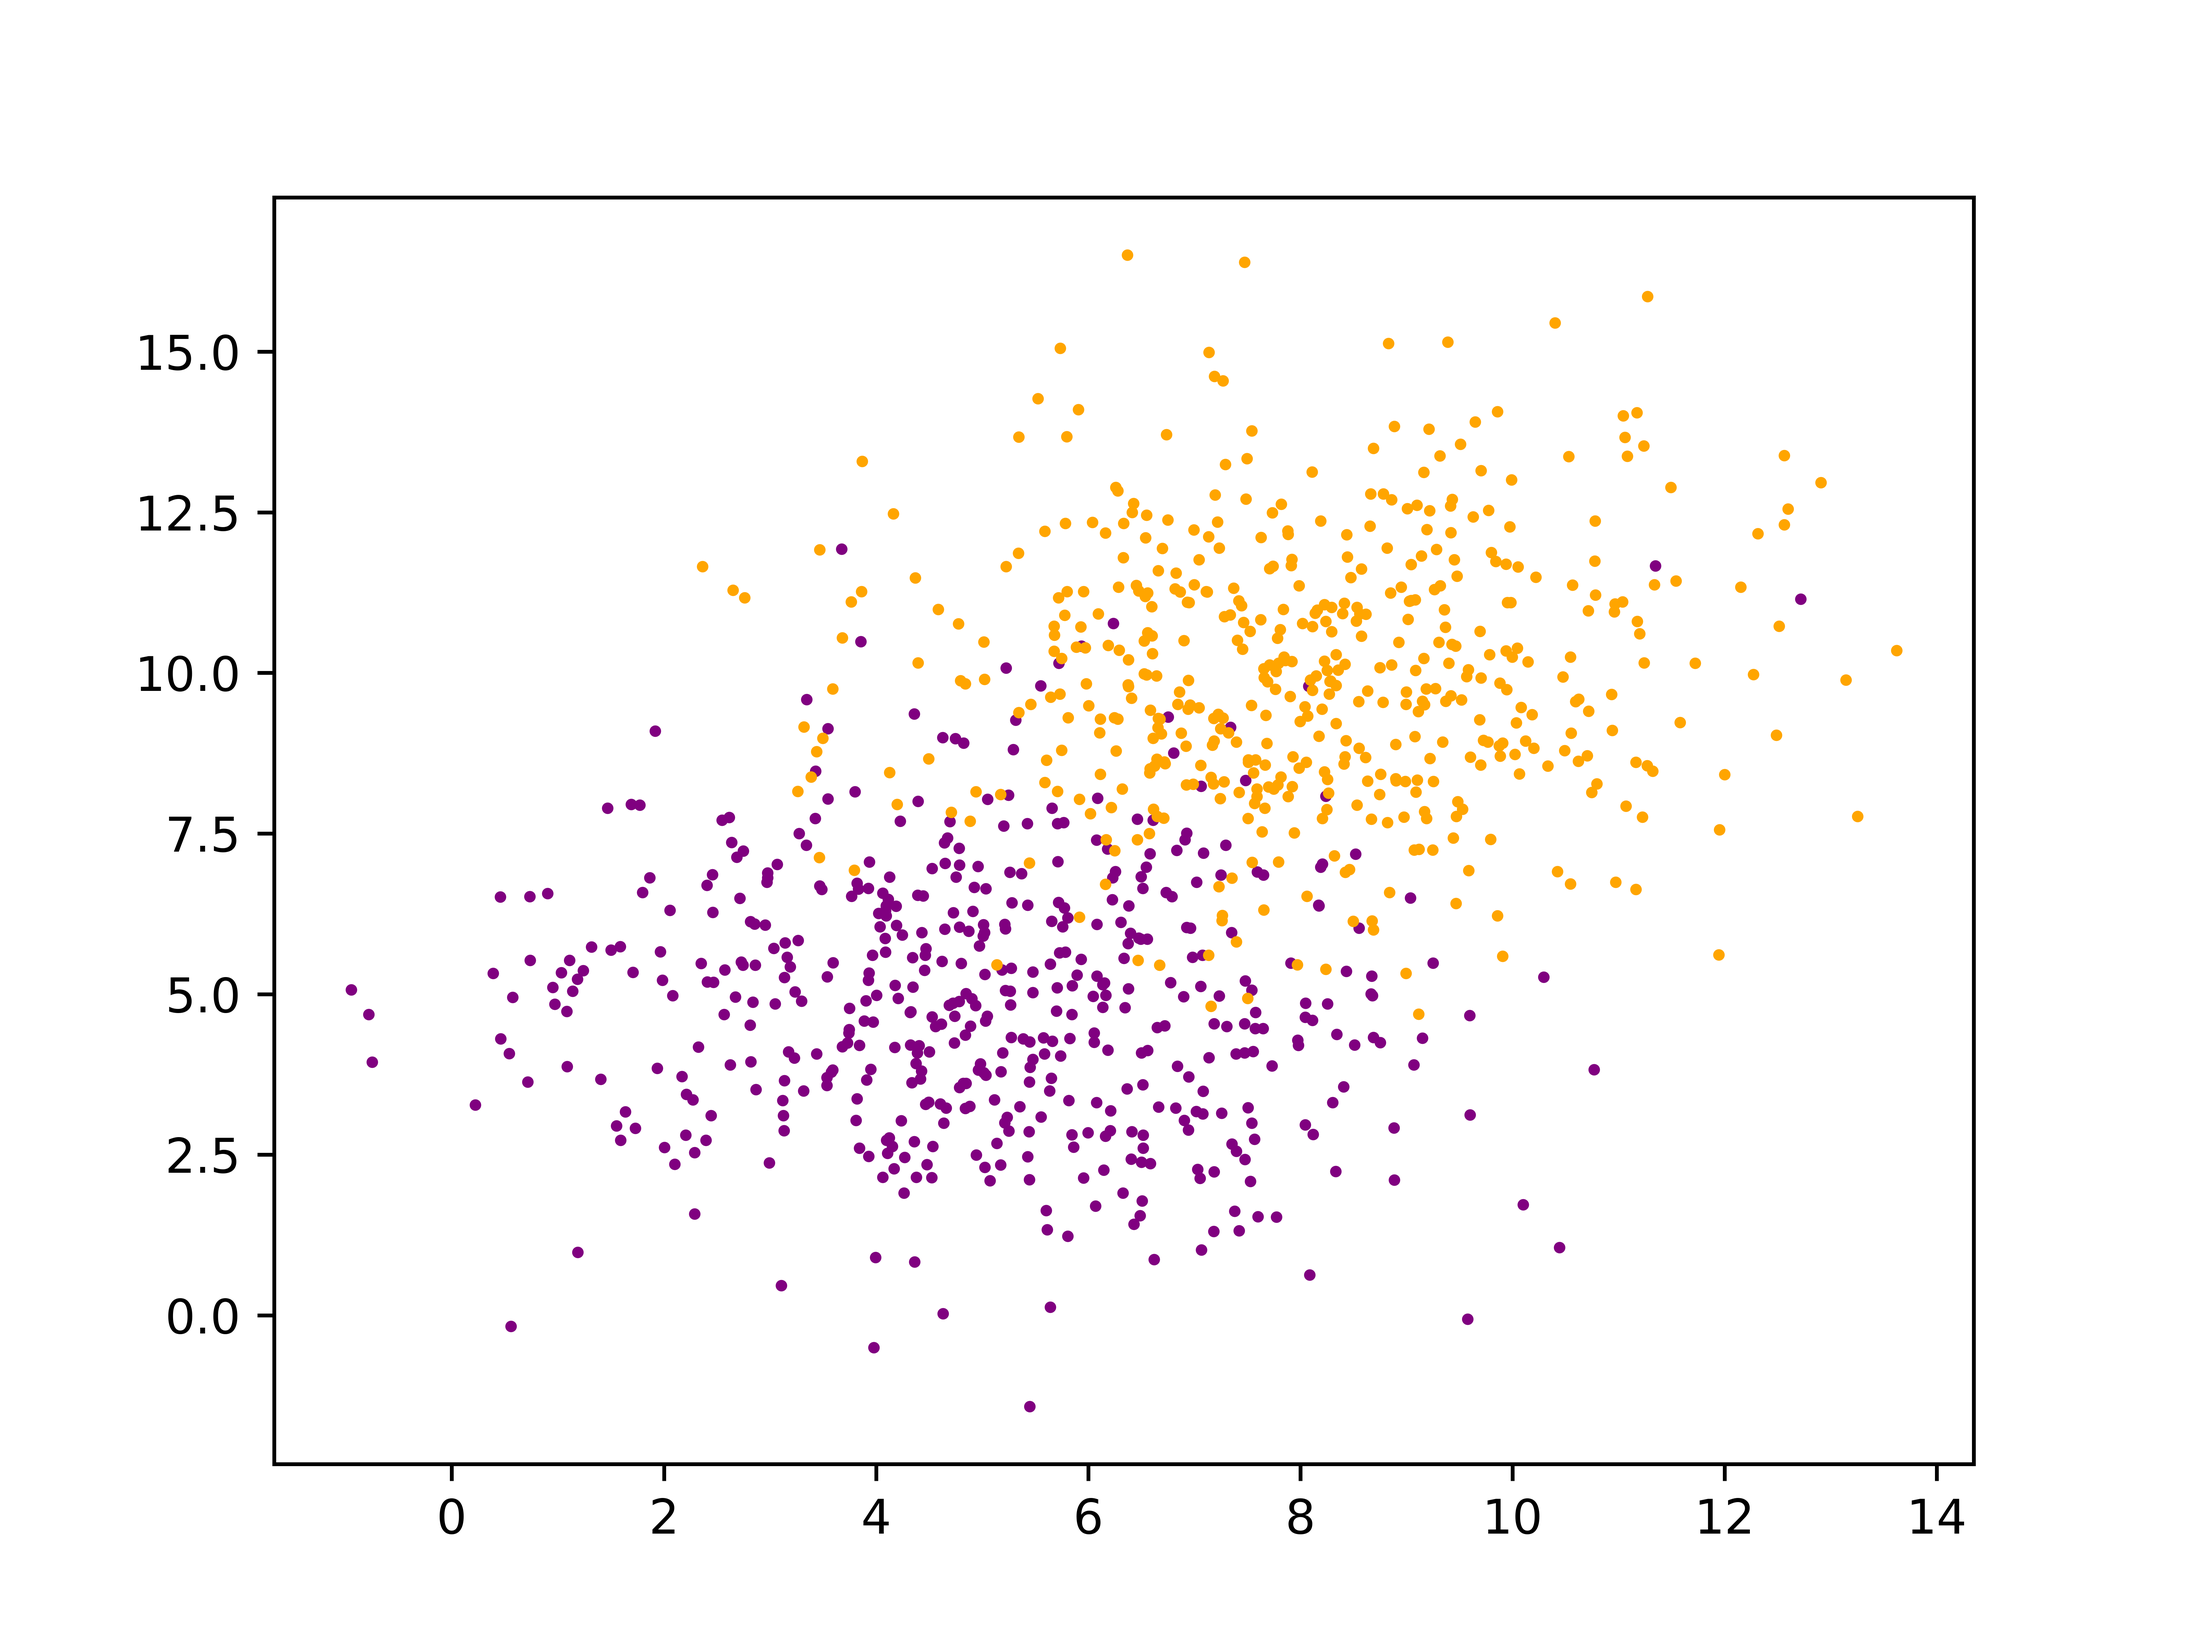
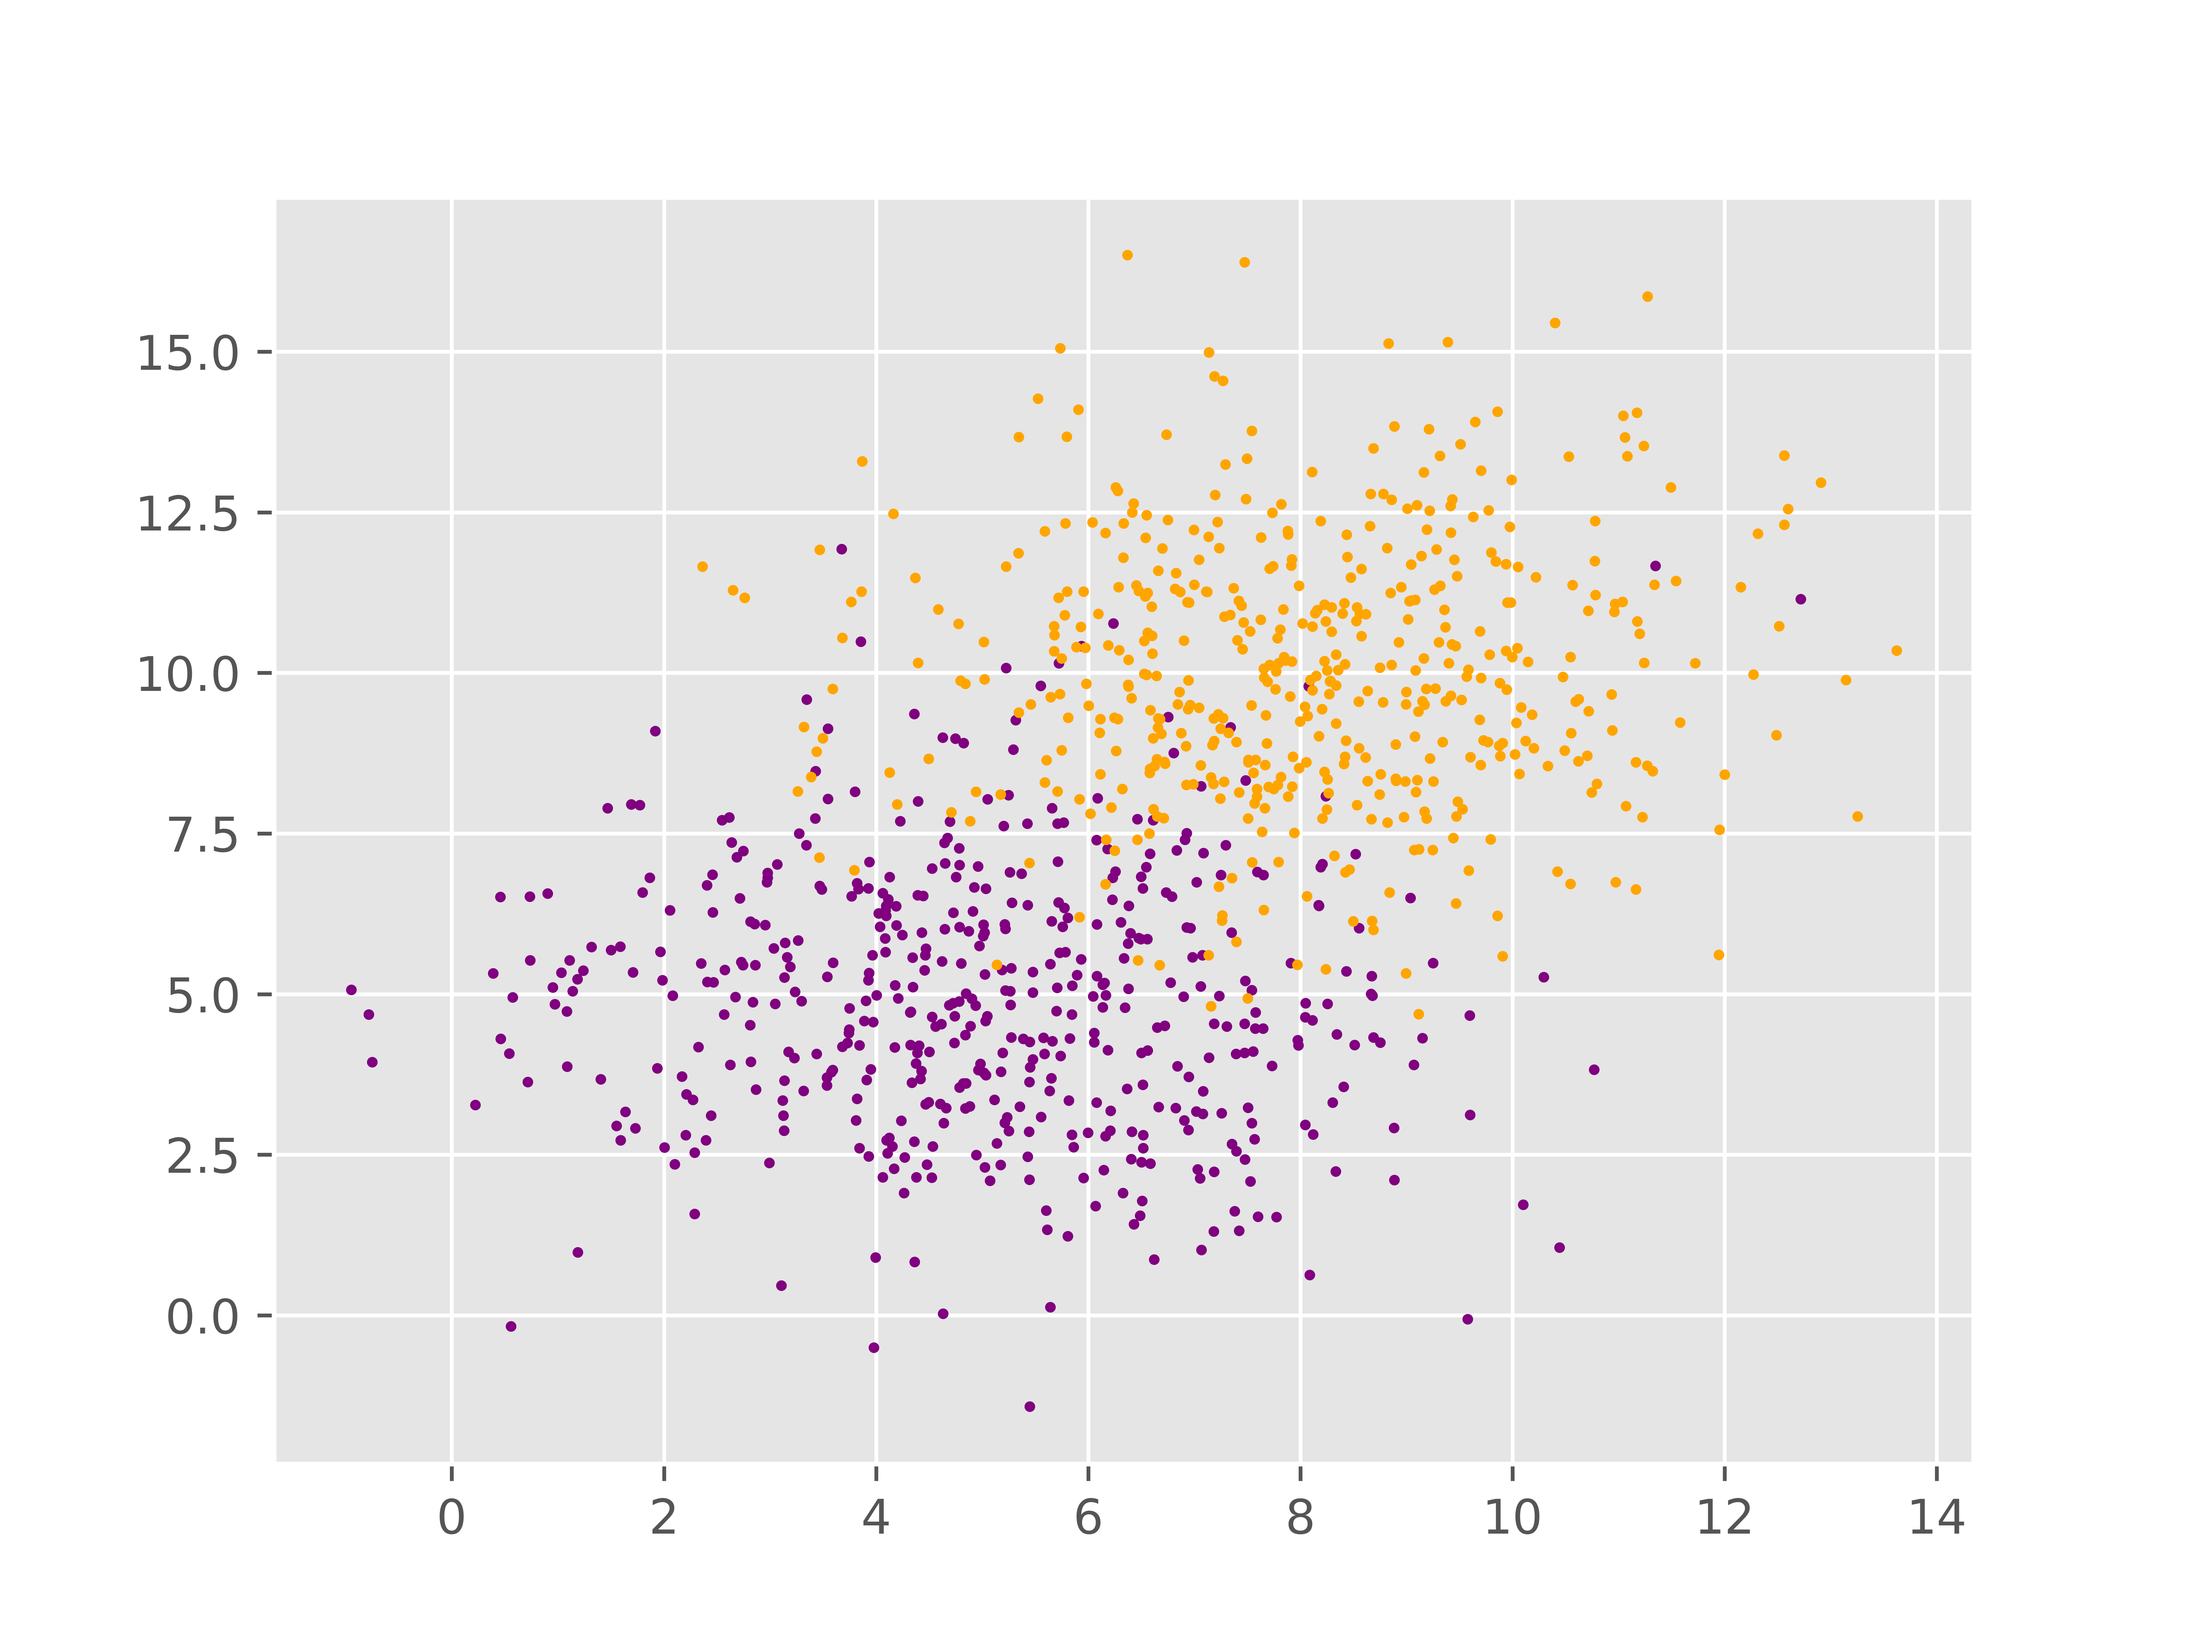
update

diff --git a/svm_sparse_version.py b/svm_sparse_version.py
@@ -3,6 +3,7 @@ import matplotlib.pyplot as plt
 import pandas as pd
 import time
 from scipy import sparse
+from scipy.io import loadmat
 
 def phi_plus(t):
     if t <= delta:
@@ -47,23 +48,15 @@ def plot_result(m, xk):
     x = a[:,0].toarray()
     y = (-A*x-C)/B
     plt.plot(x, y, color='red')
-def test(xk, dataset_num):
-    data = pd.read_csv('./test_dataset_csv_files/test_dataset'+str(dataset_num)+'.csv', header=None)
-    a = np.array(data.iloc[:, 0:2])
-    b = np.array(data.iloc[:, 2])
+def test(xk):
+    
+    a = loadmat('../final_project/datasets/breast-cancer/breast-cancer_train.mat')['A']
+    b = loadmat('../final_project/datasets/breast-cancer/breast-cancer_train_label.mat')['b'].reshape(-1)
     m_test = b.size
     x = xk[:-1]
     y = xk[-1][0]
-    
-    accuracy = 0
-    p = np.zeros(m_test)
-    for i in np.arange(m_test):
-        if np.dot(a[i], x)[0] + y > 0:
-            p[i] = 1
-        else:
-            p[i] = -1
-    accuracy = np.sum(np.abs(p + b)) / (2*m_test)
-    return accuracy
+    accuracy = np.sum(np.abs((2 * ((a.dot(x) + y > 0) + 0) - 1).reshape(-1) + b))/(2*m_test)
+    return accuracy   
 def gradient_method(initial, m, Lambda):
     s = 1
     sigma = 0.5
@@ -90,7 +83,7 @@ def gradient_method(initial, m, Lambda):
         num_iteration = num_iteration + 1
     print(xk)
     plot_result(m, xk)
-    print(test(xk, dataset_num))
+    print(test(xk))
 
 def AGM(initial, m, Lambda):
     x_minus = xk = initial
@@ -117,7 +110,7 @@ def AGM(initial, m, Lambda):
         print(np.linalg.norm(gradient))
     print(xk)
     plot_result(m, xk)
-    print(test(xk, dataset_num))
+    print(test(xk))
 
 def BFGS(initial, m, Lambda):
     Hk = np.identity(n+1)
@@ -143,7 +136,10 @@ def BFGS(initial, m, Lambda):
         if np.dot(sk.T, yk) <= 1e-14:
             pass
         else:
-            Hk = Hk + np.dot((sk - np.dot(Hk, yk)), sk.T)/(np.dot(sk.T, yk)) - np.dot((sk-np.dot(Hk, yk)).T, yk)/(np.dot(sk.T, yk)**2) * np.dot(sk, sk.T)
+            Hk = Hk + (np.dot((sk - np.dot(Hk, yk)), sk.T) + \
+                       np.dot(sk, (sk-np.dot(Hk, yk)).T))/(np.dot(sk.T, yk)) \
+                - np.dot((sk-np.dot(Hk, yk)).T, yk)/(np.dot(sk.T, yk)**2) * \
+                    np.dot(sk, sk.T)
         num_iteration = num_iteration + 1
         xk = xk_new
         gradient = df(xk, m, Lambda)
@@ -152,17 +148,22 @@ def BFGS(initial, m, Lambda):
         
     print(xk)
     plot_result(m, xk)
-    print(test(xk, dataset_num))
+    print(test(xk))
     
 # Main begin
 n = 2 #number of features
 delta = 1e-3
 Lambda = 0.1
-max_iter = 100000
+max_iter = 20000
 
+"""
 dataset_num = 1
 a = sparse.load_npz('./dataset_sparse_files/dataset'+str(dataset_num)+'_train.npz')
 b = np.load('./dataset_sparse_files/dataset'+str(dataset_num)+'_train_labels.npy')
+"""
+a = loadmat('../final_project/datasets/breast-cancer/breast-cancer_train.mat')['A']
+b = loadmat('../final_project/datasets/breast-cancer/breast-cancer_train_label.mat')['b'].reshape(-1)
+m, n = a.shape
 
 
 initial = np.zeros((n+1, 1)) #the last element is y

diff --git a/logistic_sparse_version.py b/logistic_sparse_version.py
@@ -2,6 +2,8 @@ import numpy as np
 import pandas as pd
 import matplotlib.pyplot as plt
 from scipy import sparse
+from scipy.io import loadmat
+import scipy.sparse.linalg
 
 def plot_result(m, xk):
     m1 = m2 = 0
@@ -25,7 +27,16 @@ def plot_result(m, xk):
     x = a[:,0].toarray()
     y = (-A*x-C)/B
     plt.plot(x, y, color='red')
-    
+
+def test(xk):
+
+    a = loadmat('../final_project/datasets/rcv1/rcv1_test.mat')['A']
+    b = loadmat('../final_project/datasets/rcv1/rcv1_test_label.mat')['b'].reshape(-1)
+    m_test = b.size
+    x = xk[:-1]
+    y = xk[-1][0]
+    accuracy = np.sum(np.abs((2 * ((a.dot(x) + y > 0) + 0) - 1).reshape(-1) + b))/(2*m_test)
+    return accuracy 
 
 def f_logit(xk, Lambda):
     x, y = xk[:-1], xk[-1]
@@ -106,7 +117,8 @@ def gradient_method(f, f_grad, x_0: np.array, tol: float, stepsize: str, max_ite
         print(np.linalg.norm(f_grad(x_k)))
         result.append([k, x_k.tolist(), alpha_k, f(x_k), np.linalg.norm(f_grad(x_k))])
     xk_result = np.array(result[-1][1]).reshape(-1,1)
-    plot_result(m, xk_result)
+    #plot_result(m, xk_result)
+    print(test(xk_result))
     return result
 
 ##AGM
@@ -151,7 +163,8 @@ def AGM(f, f_grad, x_0: np.array, tol: float, max_iter: int, L: float):
         print(np.linalg.norm(f_grad(x_k)))
         result.append([k, x_k.tolist(), alpha_k, f(x_k), np.linalg.norm(f_grad(x_k))])
     xk_result = np.array(result[-1][1]).reshape(-1,1)
-    plot_result(m, xk_result)    
+    #plot_result(m, xk_result)
+    print(test(xk_result))
     return result
 
 # Main begin
@@ -159,9 +172,15 @@ delta = 1e-3
 Lambda = 0.1
 max_iter = 10000
 
+"""
 dataset_num = 4
 a = sparse.load_npz('./dataset_sparse_files/dataset'+str(dataset_num)+'_train.npz')
 b = np.load('./dataset_sparse_files/dataset'+str(dataset_num)+'_train_labels.npy')
+m, n = a.shape
+
+"""
+a = loadmat('../final_project/datasets/rcv1/rcv1_train.mat')['A']
+b = loadmat('../final_project/datasets/rcv1/rcv1_train_label.mat')['b'].reshape(-1)
 m, n = a.shape
 
 initial = np.zeros((n+1, 1)).reshape(-1,) #the last element is y
@@ -169,7 +188,7 @@ initial = np.zeros((n+1, 1)).reshape(-1,) #the last element is y
 
 #gm_result = gradient_method(lambda x_k: f_logit(x_k, Lambda), lambda x_k: df_logit(x_k, Lambda), initial, tol=1e-4, stepsize='backtrack', max_iter=max_iter)
 
-L = np.linalg.norm(a@np.eye(n))**2/4/m
+L = scipy.sparse.linalg.norm(a)**2/4/m
 AGM_result = AGM(lambda x_k: f_logit(x_k, Lambda), lambda x_k: df_logit(x_k, Lambda), initial, tol=1e-4, max_iter=max_iter, L=L)
 
 

diff --git a/sgd_sparse_version.py b/sgd_sparse_version.py
@@ -1,9 +1,11 @@
 import numpy as np
 import pandas as pd
 import matplotlib.pyplot as plt
+from scipy import sparse
+from scipy.io import loadmat
 
 #diminishing with pre-defined alpha_k 
-diminishing = lambda k: 1/np.log10(k+2)
+diminishing = lambda k: 0.1/np.log10(k+2)
 
 def plot_result(m, xk):
     m1 = m2 = 0
@@ -14,17 +16,17 @@ def plot_result(m, xk):
             m2 = m2 + 1
             
     s = 2 # control the point size
-    x = a[0:m1, 0]
-    y = a[0:m1, 1]
+    x = a[0:m1, 0].toarray()
+    y = a[0:m1, 1].toarray()
     plt.scatter(x, y, c='purple', s=s)
-    x = a[m1:, 0]
-    y = a[m1:, 1]
+    x = a[m1:, 0].toarray()
+    y = a[m1:, 1].toarray()
     plt.scatter(x, y, c='orange', s=s)
     
     A = xk[0][0]
     B = xk[1][0]
     C = xk[2][0]
-    x = a[:,0]
+    x = a[:,0].toarray()
     y = (-A*x-C)/B
     plt.plot(x, y, color='red')
 
@@ -61,6 +63,8 @@ def Stochastic_gradient_method(f_i, f_grad_i, x_0: np.array, batch: int, tol: fl
     
      
     while np.mean([np.linalg.norm(f_grad_i(x_k, i)) for i in batch_index], axis=0) > tol:
+        np.random.seed(k) #for each k, the batch set is different
+        batch_index = np.random.randint(low = 0, high = m, size = batch) 
         d_k = -np.mean([f_grad_i(x_k, i) for i in batch_index], axis=0)
     
         alpha_k = diminishing(k)
@@ -77,7 +81,7 @@ def Stochastic_gradient_method(f_i, f_grad_i, x_0: np.array, batch: int, tol: fl
         result.append([k, x_k.tolist(), alpha_k, np.mean([np.linalg.norm(f_grad_i(x_k, i)) for i in batch_index], axis=0)])
     
     xk_result = np.array(result[-1][1]).reshape(-1,1)
-    plot_result(m, xk_result)    
+    #plot_result(m, xk_result)    
     return result
 
 # Main begin
@@ -85,10 +89,14 @@ delta = 1e-3
 Lambda = 0.1
 max_iter = 10000
 
-dataset_num = 4
-data = pd.read_csv('./dataset_csv_files/dataset'+str(dataset_num)+'.csv', header=None)
-a = np.array(data.iloc[:, 0:2])
-b = np.array(data.iloc[:, 2])
+"""
+dataset_num = 1
+a = sparse.load_npz('./dataset_sparse_files/dataset'+str(dataset_num)+'_train.npz')
+b = np.load('./dataset_sparse_files/dataset'+str(dataset_num)+'_train_labels.npy')
+m, n = a.shape
+"""
+a = loadmat('../final_project/datasets/breast-cancer/breast-cancer_train.mat')['A']
+b = loadmat('../final_project/datasets/breast-cancer/breast-cancer_train_label.mat')['b'].reshape(-1)
 m, n = a.shape
 
 initial = np.zeros((n+1, 1)).reshape(-1,) #the last element is y

diff --git a/lbfgs_sparse_version.py b/lbfgs_sparse_version.py
@@ -2,6 +2,7 @@ import numpy as np
 import pandas as pd
 import matplotlib.pyplot as plt
 from scipy import sparse
+from scipy.io import loadmat
 
 def f_logit(xk, Lambda):
     x, y = xk[:-1], xk[-1]
@@ -21,6 +22,16 @@ def df_logit(xk, Lambda):
     df_Log = (t /(1+t))*(-b)
     grad[x.size] = df_Log.sum()/m
     return grad.reshape(-1,)
+
+def test(xk):
+    
+    a = loadmat('../final_project/datasets/rcv1/rcv1_train.mat')['A']
+    b = loadmat('../final_project/datasets/rcv1/rcv1_train_label.mat')['b'].reshape(-1)
+    m_test = b.size
+    x = xk[:-1]
+    y = xk[-1][0]
+    accuracy = np.sum(np.abs((2 * ((a.dot(x) + y > 0) + 0) - 1).reshape(-1) + b))/(2*m_test)
+    return accuracy   
 
 #backtrack(armijo)
 def armijo(f, f_grad, x_k: np.array, d_k: np.array, s: float, sigma: float, gamma: float):
@@ -150,16 +161,23 @@ def L_BFGS(f, f_grad, x_0: np.array, tol: float, stepsize: str, max_iter: int, m
             break 
     
     xk_result = np.array(result[-1][1]).reshape(-1,1)
-    plot_result(m, xk_result)
+    #plot_result(m, xk_result)
+    print(test(xk_result))
     return result
 
 # Main begin
 Lambda = 0.1
 max_iter = 10000
 
+"""
 dataset_num = 1
 a = sparse.load_npz('./dataset_sparse_files/dataset'+str(dataset_num)+'_train.npz')
 b = np.load('./dataset_sparse_files/dataset'+str(dataset_num)+'_train_labels.npy')
+m, n = a.shape
+"""
+
+a = loadmat('../final_project/datasets/rcv1/rcv1_train.mat')['A']
+b = loadmat('../final_project/datasets/rcv1/rcv1_train_label.mat')['b'].reshape(-1)
 m, n = a.shape
 
 initial = np.zeros((n+1, 1)).reshape(-1,) #the last element is y

diff --git a/logistic.py b/logistic.py
@@ -38,9 +38,9 @@ def df_logit(xk, Lambda):
 
     grad = np.zeros((x.size+1, 1)).reshape(-1)
     
-    t = np.exp(-b.reshape(-1)*(a @ x+y).reshape(-1))
+    t = np.exp(-b.reshape(-1)*(a.dot(x)+y).reshape(-1))
     
-    df_Log = (t /(1+t))*(-b) @ a
+    df_Log = np.dot((t /(1+t))*(-b), a)
     grad[:-1] = Lambda * x + df_Log/m
     df_Log = (t /(1+t))*(-b)
     grad[x.size] = df_Log.sum()/m

diff --git a/data_prepare.py b/data_prepare.py
@@ -3,10 +3,10 @@
 import numpy as np
 import matplotlib.pyplot as plt
 import pandas as pd
-
+plt.style.use("ggplot")
 
 def plot_data(data):
-    s = 2 # control the point size
+    s = 3 # control the point size
     x = data[0:m1, 0]
     y = data[0:m1, 1]
     plt.scatter(x, y, c='purple', s=s)
